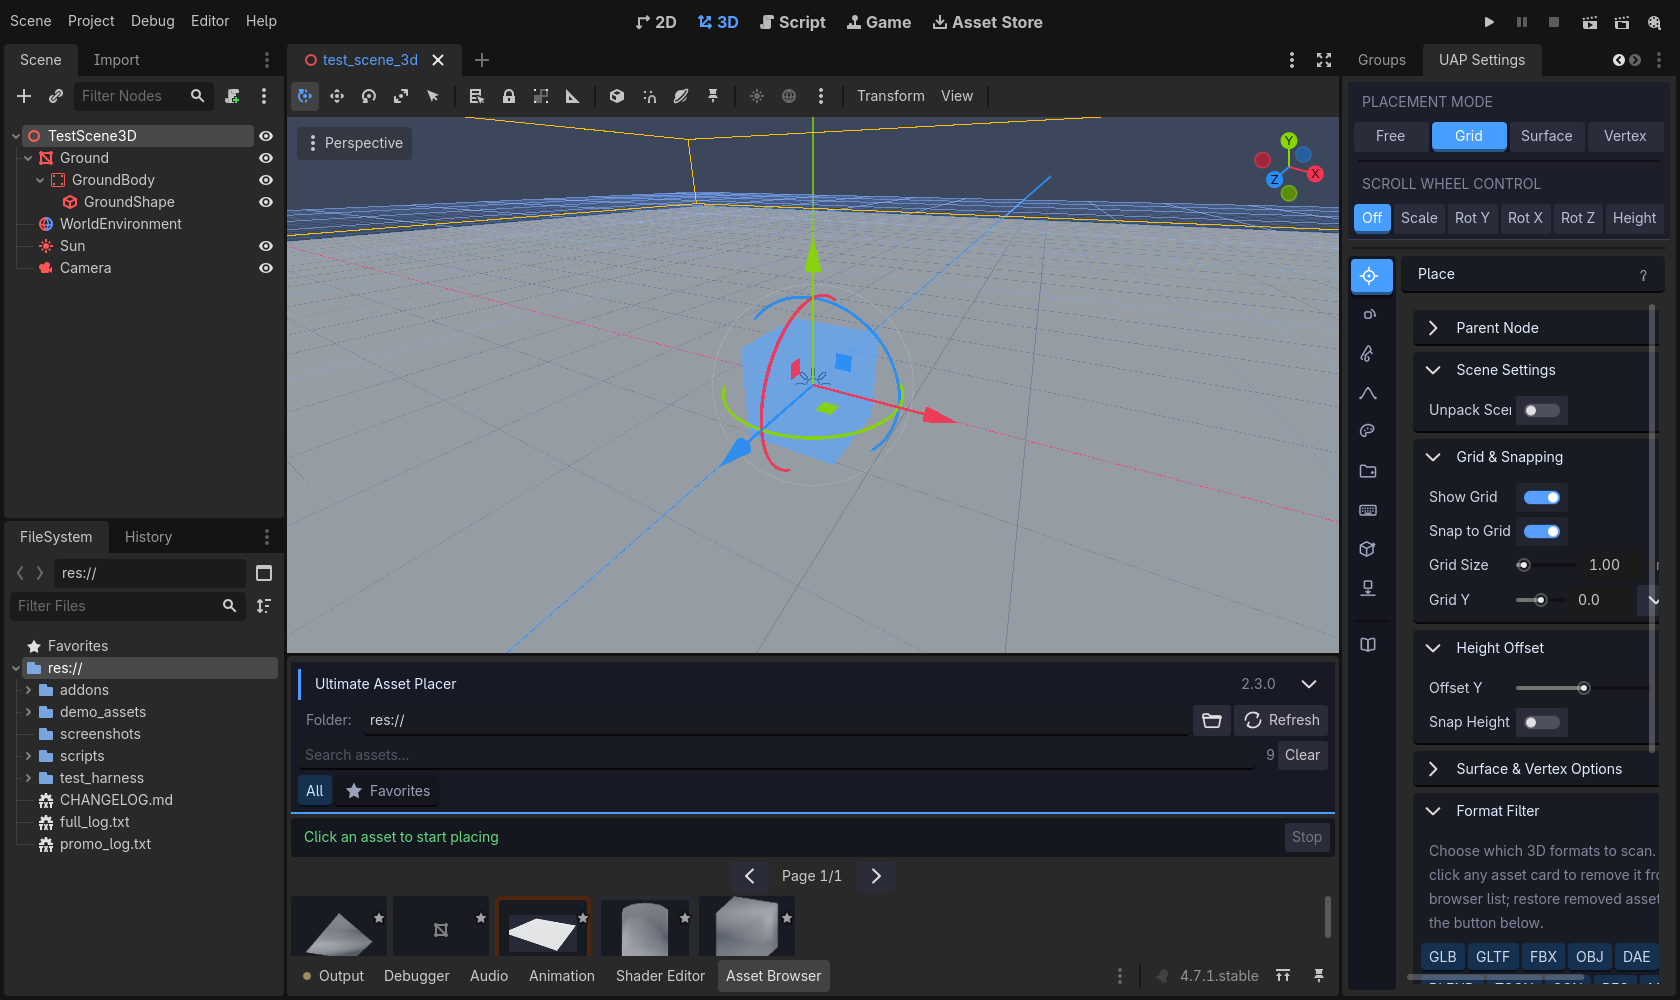
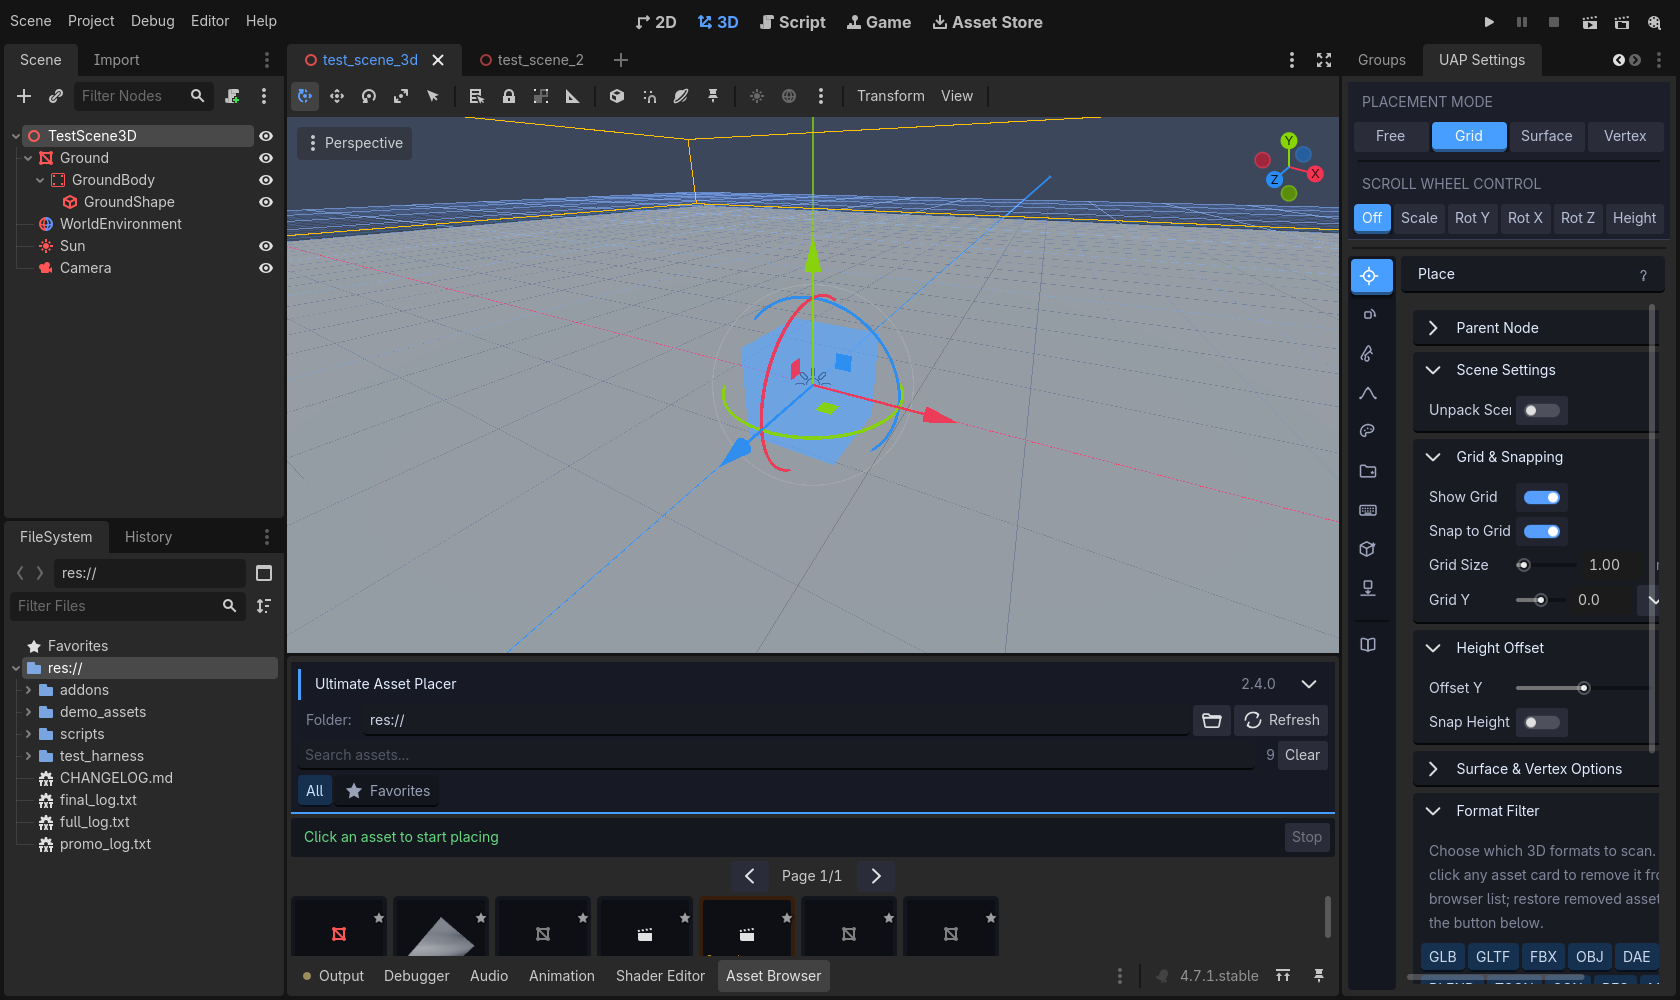
Ultimate Asset Placer v2.4.0 — carved inset cards, active-color well rings, Opened chip, Open Scene / View Model
Asset browser cards:
- Resting cards are now dark inset 3D (carved like the group chips):
  darker-than-panel fill + single darker bottom line, no side borders
- Selected card thumbnails get a ring in the active color (blue single /
  amber multi) on top of the color tint, so selection wraps the image
- Card names: near-white with black outline (card names only)
- Open scenes show an amber 'Opened' chip in the thumbnail's bottom-left
- Grid rows keep a larger vertical margin than columns
- All card state styleboxes share content margins (no select-time shift)
- Card name labels + chip use zero-margin styleboxes (editor theme Label
  stylebox margins were inflating min sizes beyond the square budget)

Context menu:
- New single-asset 'Open Scene' / 'View Model' action at the top of the
  menu (hidden for multi-select). Scenes open in the editor with an
  already-open guard; models open in the Inspector's 3D mesh preview —
  imported formats via their first mesh because open_scene_from_path()
  is a silent no-op for imported scenes in Godot 4.7.1

Tested end-to-end in a real Godot 4.7.1 editor with a 58-step harness
(assertions + screenshots): zero script errors, zero audit fails.

Changed region(s): [[0.2476, 0.899, 0.619, 0.961], [0.031, 0.713, 0.1238, 0.806], [0.1857, 0.899, 0.2167, 0.961]]

diff --git a/README.md b/README.md
@@ -2,7 +2,7 @@
 
 **Professional 3D asset placement tool for Godot 4.7+** — place, paint, scatter, spline, and physics-drop your assets with a fast, tactile editor UI. Optimised for thousands of assets.
 
-![Godot 4.7](https://img.shields.io/badge/Godot-4.7%2B-478cbf) ![Version](https://img.shields.io/badge/version-2.3.0-blue) ![License](https://img.shields.io/badge/license-MIT-green)
+![Godot 4.7](https://img.shields.io/badge/Godot-4.7%2B-478cbf) ![Version](https://img.shields.io/badge/version-2.4.0-blue) ![License](https://img.shields.io/badge/license-MIT-green)
 
 ![Ultimate Asset Placer in the Godot editor](screenshots/editor_overview.png)
 
@@ -17,6 +17,28 @@
 - **Material override & auto collision** — Replace/Next-Pass materials, Static/Rigid/Character/Area bodies with five shape types.
 - **Physics tab** — lift, drop, tumble and settle existing scene objects entirely inside the editor.
 - **Asset Zoo** — lays out your whole library in a 3D grid for inspection.
+
+## What's new in v2.4.0 — carved asset cards, Open Scene / View Model
+
+- **Asset cards are now dark inset 3D.** Resting cards are carved into the
+  panel exactly like the group chips — a clearly darker face with a single
+  darker line along the bottom edge, no border on any other side. No more
+  cards blending into the background.
+- **Selection frames the thumbnail.** A selected card is raised in blue 3D
+  and its thumbnail gets a **blue ring** on top of the blue tint; Ctrl/Shift
+  multi-select does the same in amber. The active color reads AROUND the
+  image, not just under it.
+- **White card names with a black outline** for crisp legibility over any
+  thumbnail (asset browser card names only).
+- **"Opened" chip.** The scene that is currently open in the editor is
+  marked with an amber "Opened" tag in the bottom-left corner of its
+  thumbnail (and keeps its warm card tint).
+- **Roomier rows.** The asset grid now keeps a clearly larger vertical
+  margin between rows than between columns, so rows no longer read cramped.
+- **Open Scene / View Model in the card context menu.** Right-click a single
+  card to open that scene in the editor, or view a model: mesh resources
+  (obj/mesh) and imported scene formats (glb/gltf/fbx/blend) are shown in
+  the Inspector with an interactive 3D mesh preview.
 
 ## What's new in v2.3.0 — borderless cards, whole-card clicks, per-tab help
 
@@ -101,7 +123,7 @@ See [CHANGELOG.md](CHANGELOG.md) for the complete, detailed change history.
 ## Installation
 
 ### Option A — from a release zip
-1. Download `ultimate_asset_placer_v2.3.0.zip` from the [Releases](../../releases) page.
+1. Download `ultimate_asset_placer_v2.4.0.zip` from the [Releases](../../releases) page.
 2. Extract it into your project folder so you end up with `res://addons/ultimate_placer/`.
 3. Open **Project → Project Settings → Plugins** and enable **Ultimate Asset Placer**.
 4. The **Asset Browser** appears as a bottom panel and the **settings panel** docks to the right.

diff --git a/CHANGELOG.md b/CHANGELOG.md
@@ -1,5 +1,49 @@
 # Ultimate Asset Placer — Changelog
 
+## v2.4.0 — carved asset cards + Open Scene / View Model
+
+A fourth polish round on the asset browser plus a new context-menu action.
+Verified against a **real Godot 4.7.1 editor** with a 58-step automated
+harness (assertions + screenshots), zero script errors and zero audit fails.
+
+### Asset browser cards
+- **Dark inset 3D resting state.** Cards are carved into the panel like the
+  group chips/rows: fill clearly darker than the background, a single darker
+  line along the bottom edge, no border on any other side. This replaces the
+  flat fill that was too similar to the panel background.
+- **Active color frames the thumbnail.** A single-selected card is raised in
+  blue 3D and its thumbnail well now wears a **blue ring** around the image
+  on top of the blue tint; multi-selected cards do the same in amber. The
+  selection reads around the thumbnail, not just under it.
+- **Black-outlined white card names.** Card names are near-white with a
+  black outline for legibility over any thumbnail — applied to asset browser
+  card names ONLY; every other label in the plugin stays plain.
+- **"Opened" chip.** The currently open scene shows an amber "Opened" tag in
+  the bottom-left corner of its thumbnail (baked at browser build time),
+  with the warm card tint retained. The old "(open)" name suffix is gone.
+- **Row spacing.** The asset grid keeps a clearly larger vertical margin
+  between rows than between columns so rows no longer look cramped.
+- **No layout shift on select.** Every card state stylebox now carries the
+  same content margins — previously selecting a card widened its thumbnail
+  well by the padding (2 x 4 px), visibly nudging the layout.
+- **Label min-size fix.** The ambient editor theme inflates Label minimum
+  sizes through its "normal" stylebox margins; card name labels and the
+  "Opened" chip now override it with a zero-margin stylebox so the square
+  card budget is exact (the chip previously spilled out of the thumbnail).
+
+### Context menu
+- **Open Scene / View Model.** Right-clicking a single card (scene or
+  model) offers the action at the top of the menu; it is hidden for
+  multi-selections. Scenes open in the editor with the native
+  unsaved-changes flow and an already-open guard; any active placement is
+  cancelled first so no ghost leaks across the scene switch.
+- **Reliable model viewing.** `EditorInterface.open_scene_from_path()` is a
+  silent no-op for imported scenes in Godot 4.7.1 (verified in the harness),
+  so imported formats (glb/gltf/fbx/blend) are viewed by extracting their
+  first mesh and opening it in the Inspector's interactive 3D preview; mesh
+  resources (obj/mesh) open directly. Scene/model entries carry editor theme
+  icons with a safe fallback.
+
 ## v2.3.0 — selection & click pass (borderless cards, whole-card clicks, per-tab help)
 
 A third polish round driven by hands-on feedback. Verified against a **real
